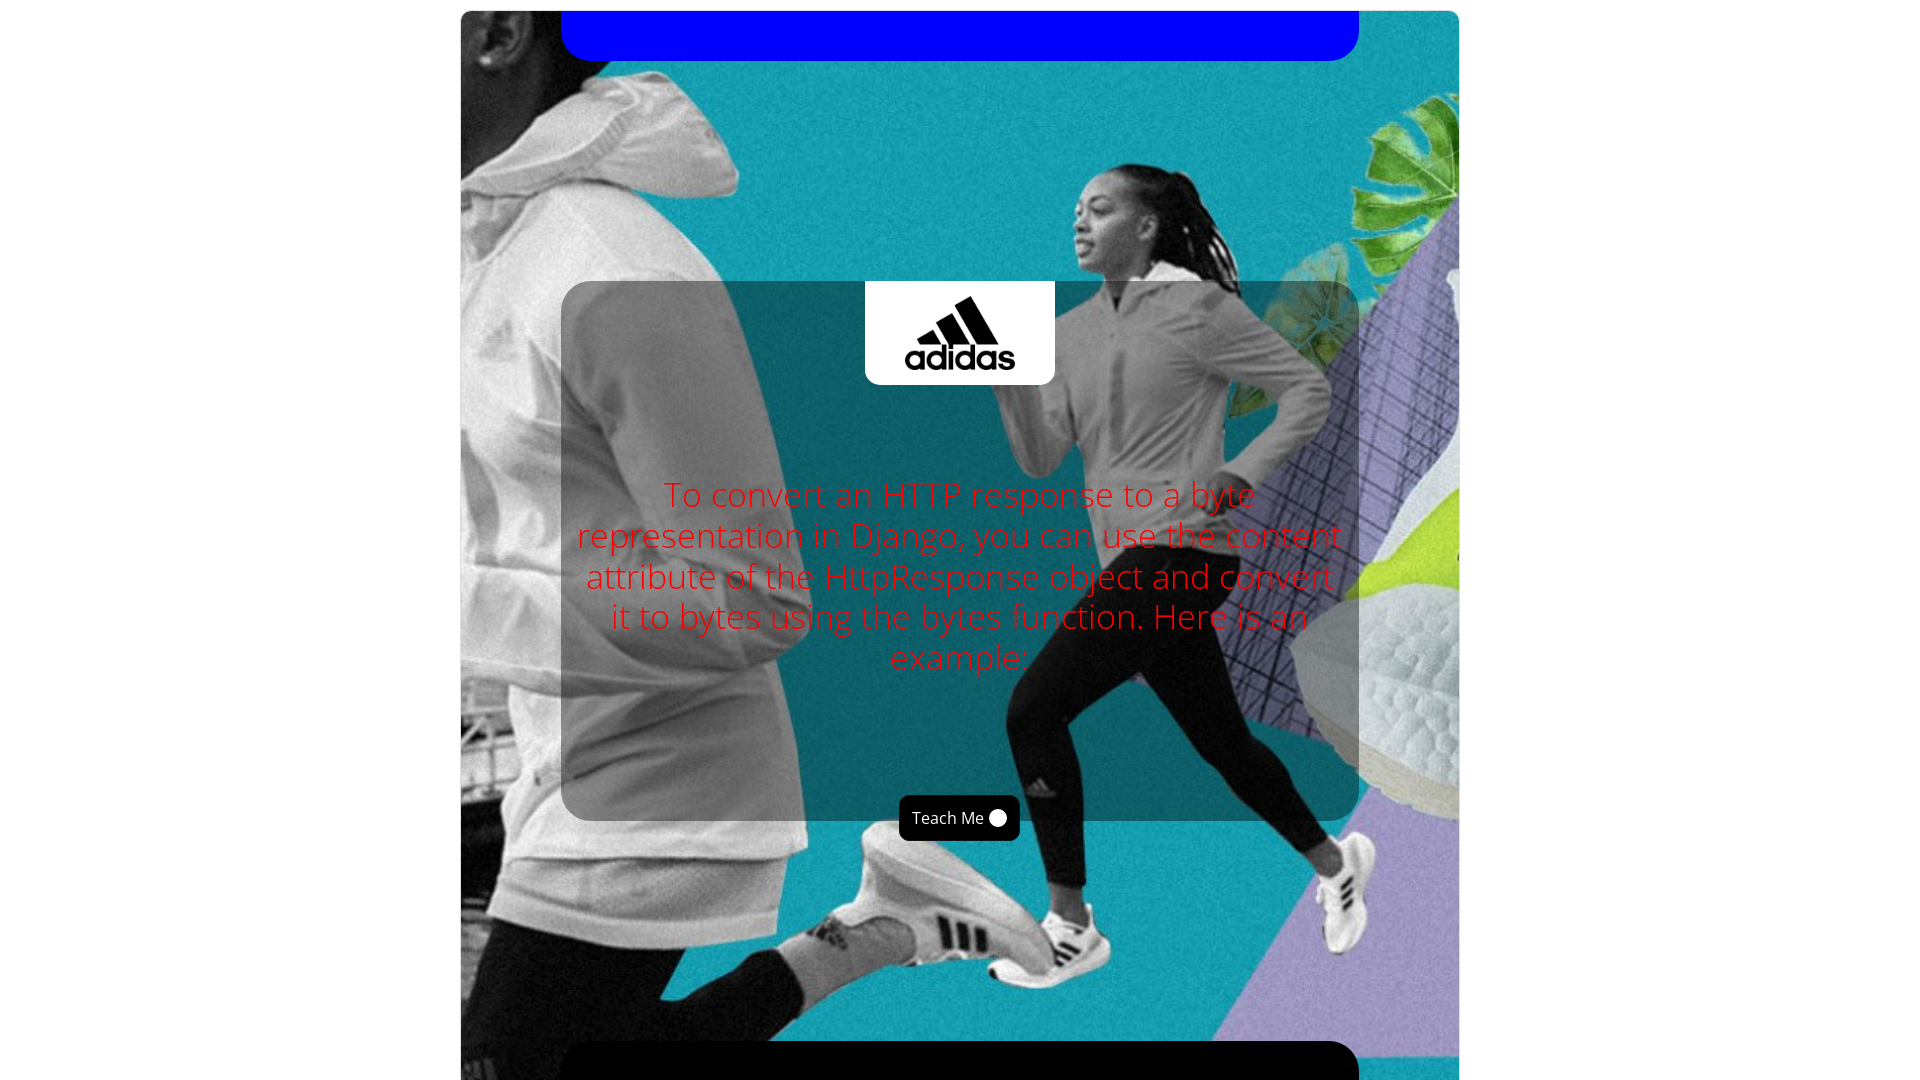
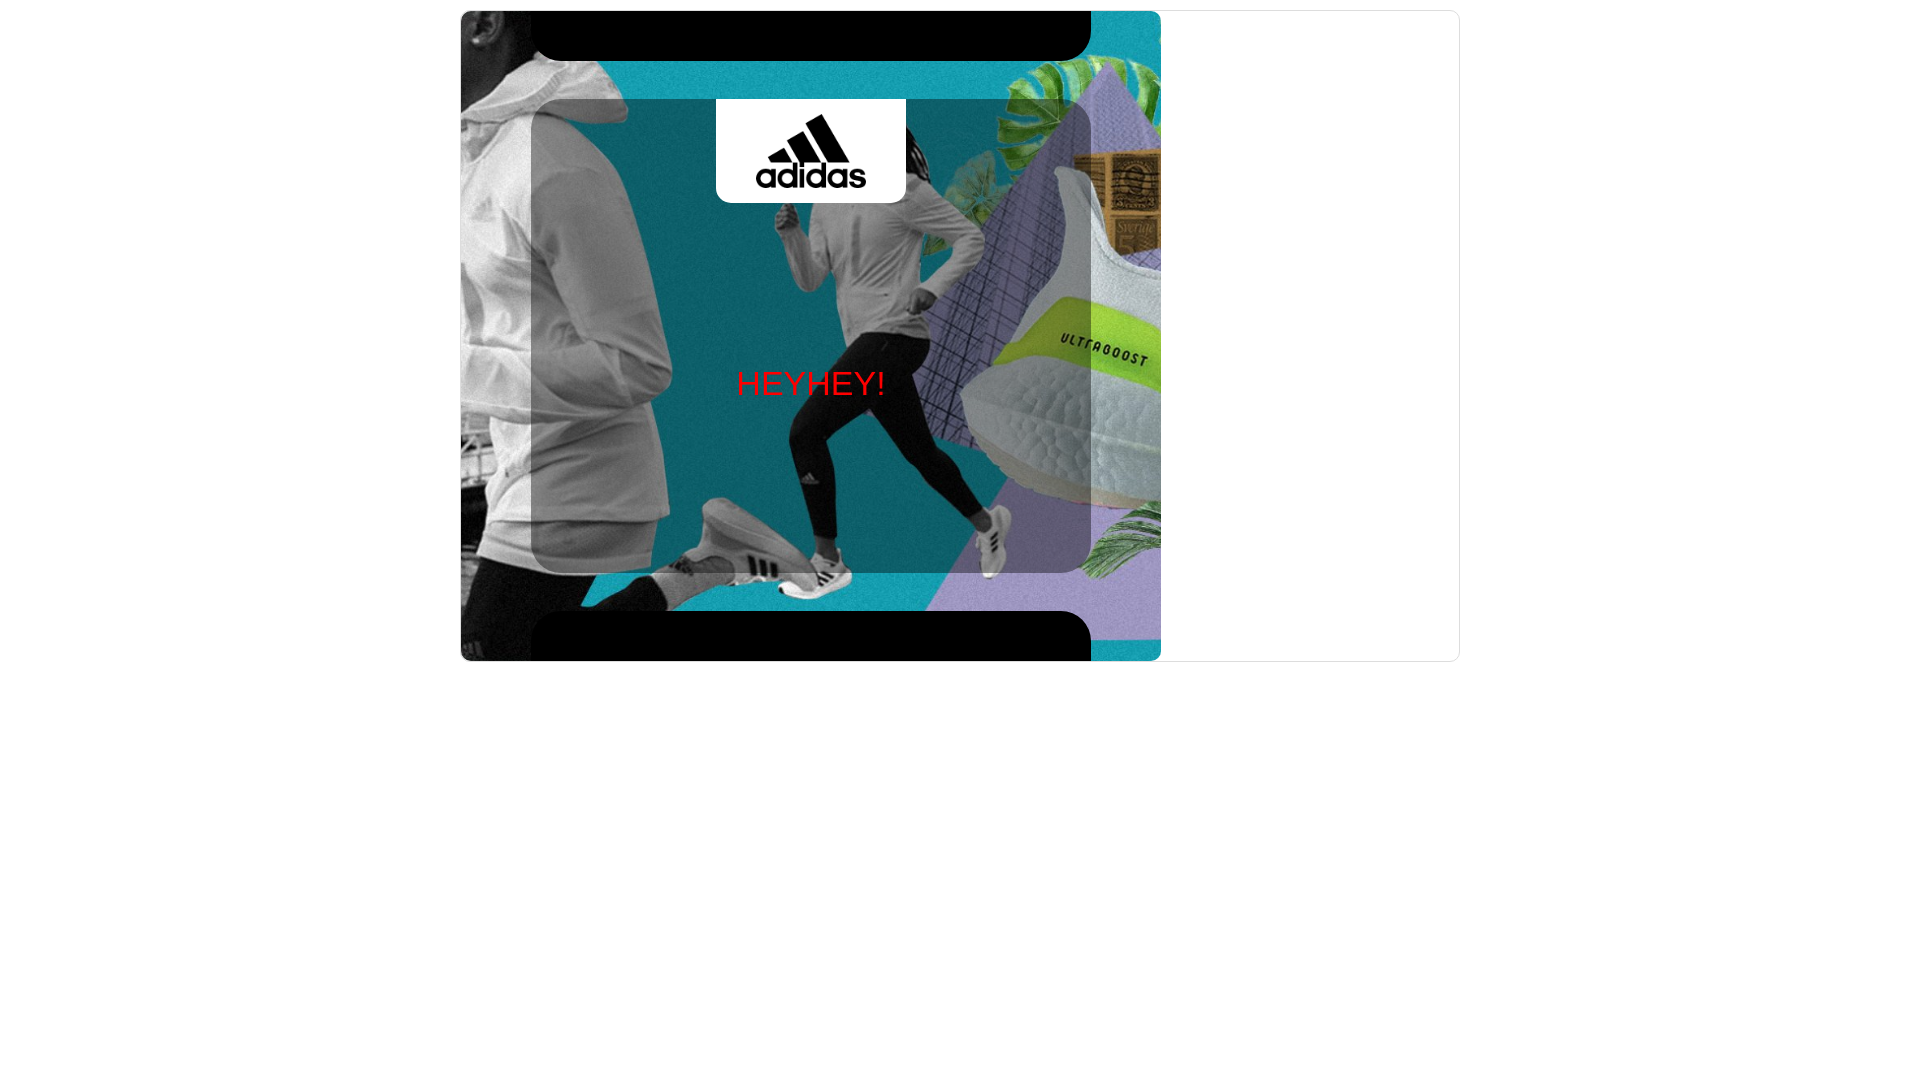
Update image height and width

diff --git a/templates/MarketTemplate/template-1.html b/templates/MarketTemplate/template-1.html
@@ -9,26 +9,27 @@
     <link rel="icon" href="/docs/4.0/assets/img/favicons/favicon.ico">
     <link rel="preconnect" href="https://fonts.googleapis.com">
     <link rel="preconnect" href="https://fonts.gstatic.com" crossorigin>
-    <link href="https://fonts.googleapis.com/css2?family=Open+Sans:wght@300;400;700&display=swap" rel="stylesheet">
+    <link rel="stylesheet" href="https://fonts.googleapis.com/css?family={{google_font_name}}">
 
     <title>Template 1</title>
 
     <!-- Bootstrap core CSS -->
     <link rel="stylesheet" href="https://cdn.jsdelivr.net/npm/bootstrap@4.0.0/dist/css/bootstrap.min.css" integrity="sha384-Gn5384xqQ1aoWXA+058RXPxPg6fy4IWvTNh0E263XmFcJlSAwiGgFAW/dAiS6JXm" crossorigin="anonymous">
-<style>
-  body{
-    font-family: 'Open Sans', sans-serif;
-  }
-  h2{
-    font-size: 34px;
-    font-weight: 300;
-    color: #fff;
-  }
-  h3{
-    font-size: 36px;
-    font-weight: 700;
-    color: #fff;
-  }
+    
+    <style type="text/css">
+        body{
+          font-family: {{font_family}}, sans-serif;
+        }
+        h2{
+          font-size: 34px;
+          font-weight: 300;
+          color: #fff;
+        }
+        h3{
+          font-size: 36px;
+          font-weight: 700;
+          color: #fff;
+        }
   .page-wrapper{
     border-radius: 10px;
     border: 1px solid #ddd;
@@ -36,66 +37,64 @@
     margin: 10px auto 10px;
   }
   .page-container{
-     max-width: 100%;
-     height: 100vh;
-     display: flex;
-     align-items: center;
+      height: {{height1}};
+      width: {{width1}};
+      display: flex;
+      align-items: center;
       border-radius: 10px;
       background-size: cover !important;
       position: relative;
-
   }
-.page-container:before{
-position: absolute;
+  .page-container:before{
+    position: absolute;
 
-width: 80%;
-height: 50px;
-background: {{head_color}};
-content: '';
-z-index: 99;
-left: 10%;
-top: 0;
-border-radius: 0 0 30px 30px;
+    width: 80%;
+    height: 50px;
+    background: {{head_color}};
+    content: '';
+    z-index: 99;
+    left: 10%;
+    top: 0;
+    border-radius: 0 0 30px 30px;
 }
 .page-container:after{
-position: absolute;
-bottom: 0;
-width: 80%;
-height: 50px;
-background: {{foot_color}};
-content: '';
-z-index: 99;
-left: 10%;
-
-border-radius: 30px 30px 0 0;
+  position: absolute;
+  bottom: 0;
+  width: 80%;
+  height: 50px;
+  background: {{foot_color}};
+  content: '';
+  z-index: 99;
+  left: 10%;
+  border-radius: 30px 30px 0 0;
 }
-  .container{        
-      max-width: 80%;
-      background: rgba(0,0,0,.4);
-      border-radius: 30px;
-      height: 50vh;
-      display: flex;
-      flex-direction: column;
-      justify-content: space-between;
-  }
-  .logo-img{
-    max-width: 190px;
+.container{        
+  max-width: 80%;
+  background: rgba(0,0,0,.4);
+  border-radius: 30px;
+  height: 73%;
+  display: flex;
+  flex-direction: column;
+  justify-content: space-between;
+}
+.logo-img{
+  max-width: 190px;
 background: #fff;
 padding: 15px 40px;
 border-radius: 0 0 15px 15px;
-  }
-  header{
-    padding: 20px 0;
-  }
-  .banner-wrapper img{
-    max-width: calc(100% + 30px);
-      margin-left: -15px;
-  }
-  main{
-    padding: 40px 0;
-  }
-  .teach-btn-style{
-     border-radius: 10px;
+}
+header{
+  padding: 20px 0;
+}
+.banner-wrapper img{
+  max-width: calc(100% + 30px);
+    margin-left: -15px;
+}
+main{
+  padding: 40px 0;
+}
+.teach-btn-style{
+  border-radius: 10px;
 border: 1px solid #111;
 display: inline-flex;
 padding: 10px 12px;
@@ -106,75 +105,75 @@ background: #000;
 color: #fff;
 position: relative;
 bottom: -20px;
-  }
-  .teach-btn-style span{
-    width: 18px;
-    display: inline-flex;
-    background: #fff;
-    border-radius: 100%;
-    height: 18px;
-    margin-left: 5px;
-    justify-content: center;
-  }
-  .teach-btn-style span svg{
-    width: 10px;
-    fill: #000;
-  }
-  .text-center-desktop{
-    text-align: center !important;
-  }
+}
+.teach-btn-style span{
+  width: 18px;
+  display: inline-flex;
+  background: #fff;
+  border-radius: 100%;
+  height: 18px;
+  margin-left: 5px;
+  justify-content: center;
+}
+.teach-btn-style span svg{
+  width: 10px;
+  fill: #000;
+}
+.text-center-desktop{
+  text-align: center !important;
+}
 
-  @media screen and (max-width: 720px), screen and (max-height: 100px) {
-    .page-container:before {
-      position: absolute;
-      width: 20px;
-      height: 80%;
-      left: 0px;
-      top: 10%;
-      border-radius: 0 15px 15px 0;
-    }
-    .page-container:after {
-      position: absolute;
-      width: 20px;
-      height: 80%;
-      right: 0;
-      top: 10%;
-      border-radius: 15px 0 0 15px;
-      left: inherit;
-    }
-    .container {
-      max-width: 80%;
-border-radius: 15px;
-height: 85vh;
- 
-    }
-    .logo-img {
-max-width: 100px;
+@media screen and (max-width: 720px), screen and (max-height: 100px) {
+  .page-container:before {
+    position: absolute;
+    width: 20px;
+    height: 80%;
+    left: 0px;
+    top: 10%;
+    border-radius: 0 15px 15px 0;
+  }
+  .page-container:after {
+    position: absolute;
+    width: 20px;
+    height: 80%;
+    right: 0;
+    top: 10%;
+    border-radius: 15px 0 0 15px;
+    left: inherit;
+  }
+  .container {
+    max-width: 80%;
+    border-radius: 15px;
+    height: 85vh;
 
-padding: 15px 20px;
-border-radius: 0 0 15px 15px;
+  }
+  .logo-img {
+    max-width: 100px;
+   
+    padding: 15px 20px;
+    border-radius: 0 0 15px 15px;
 }
 h2 {
-font-size: 21px;
+  font-size: 21px;
 }
 h3 {
-font-size: 16px;
+  font-size: 16px;
 
 }
 .teach-btn-style {
-
-font-size: 14px;
-
-bottom: 10px;
+    
+  font-size: 14px;
+  
+  bottom: 10px;
 }
 .text-center-desktop{
-    text-align: left !important;
-  }
+  text-align: left !important;
+}
 }
 
-  </style
+</style>
 
-  </head>
+</head>
 
   <body>
     <div class="page-wrapper">
@@ -187,16 +186,12 @@ bottom: 10px;
               </div>
               <div class="row">
                 <div class="col-md-12 text-center-desktop" >
-                  <h2 style="color: {{frame_color}}">{{text}}</h2>
+                  <h2 style="color: {{frame_color}};">{{text}}</h2>
                 </div>
               </div>
               <div class="row">
                 <div class="col-md-12 text-center-desktop">
-                  <div class="teach-btn-style">Teach Me 
-                    <span>
-                      <!-- <svg xmlns="http://www.w3.org/2000/svg" viewBox="0 0 512 512">! Font Awesome Pro 6.2.1 by @fontawesome - https://fontawesome.com License - https://fontawesome.com/license (Commercial License) Copyright 2022 Fonticons, Inc.<path d="M47.6 300.4L228.3 469.1c7.5 7 17.4 10.9 27.7 10.9s20.2-3.9 27.7-10.9L464.4 300.4c30.4-28.3 47.6-68 47.6-109.5v-5.8c0-69.9-50.5-129.5-119.4-141C347 36.5 300.6 51.4 268 84L256 96 244 84c-32.6-32.6-79-47.5-124.6-39.9C50.5 55.6 0 115.2 0 185.1v5.8c0 41.5 17.2 81.2 47.6 109.5z"/></svg> -->
-                    </span>
-                  </div>
+
                 </div>
               </div>
             </div>

diff --git a/market/views.py b/market/views.py
@@ -48,21 +48,46 @@ class MarketImage(APIView):
             text = request.POST['text']
             frame_color = request.POST['frame_color']
             foot_color = request.POST['foot_color']
+            template_number = request.POST['template_number']
+            font = request.POST['font_name']
+            width = request.POST['width']
+            height = request.POST['height']
         except Exception as e:
+            print(e)
             return JsonResponse({}, status=400)
 
         logo_byte, background_byte = convert_image_to_bytes(logo), convert_image_to_bytes(background_image)
+
         template_dir = 'MarketTemplate'
-        market_templates_list = os.listdir(str(settings.BASE_DIR) + '/templates/' + template_dir)
-        market_images_list = []
-        for temp in market_templates_list:
-            print(temp)
-            template_path = template_dir+f"/{temp}"
+        temp = f"template-{template_number}.html"
+        template_path = template_dir+f"/{temp}"
+    
+        try:
             template = get_template(template_path)
+        except Exception:
+            return JsonResponse({"message": "Template doesn't exists"}, status=400)
 
-            context = {"logo": logo_byte, "bg_image": background_byte, "text": text, "head_color":head_color, "foot_color": foot_color, "frame_color": frame_color}
+        google_font_name = "+".join(font.strip().split(" ")) 
 
-            html = template.render(context)
-            save_images(html, f'{temp.split(".")[0]}.png', type=market_hti)
-            market_images_list.append('http://127.0.0.1:8000'+market_static_path+f'{temp.split(".")[0]}.png')
+        context = {
+            "logo": logo_byte, 
+            "bg_image": background_byte, 
+            "text": text, 
+            "head_color":head_color, 
+            "foot_color": foot_color, 
+            "frame_color": frame_color, 
+            "font_family": font, 
+            "google_font_name": google_font_name.title(),
+            "height1": height,
+            "width1": width
+        }
+
+        html = template.render(context)
+        market_images_list = []
+        # print(html)
+        print(height)
+        save_images(html, f'{temp.split(".")[0]}.png', type=market_hti)
+
+        market_images_list.append('http://127.0.0.1:8000'+market_static_path+f'{temp.split(".")[0]}.png')
+
         return JsonResponse({"images": market_images_list}, status=200)
